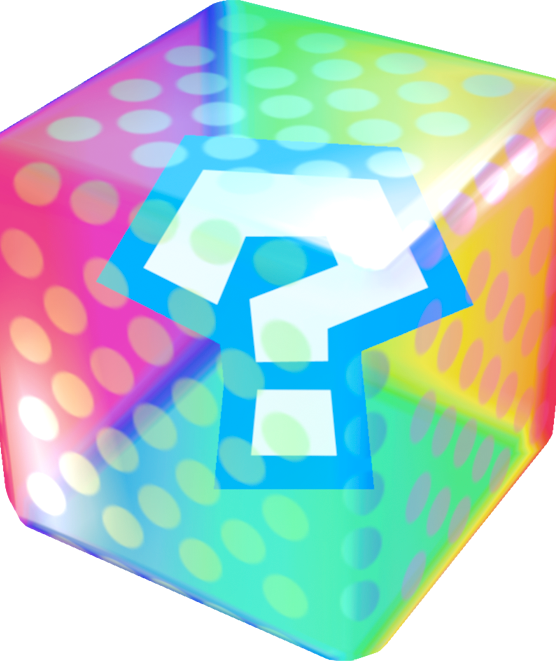
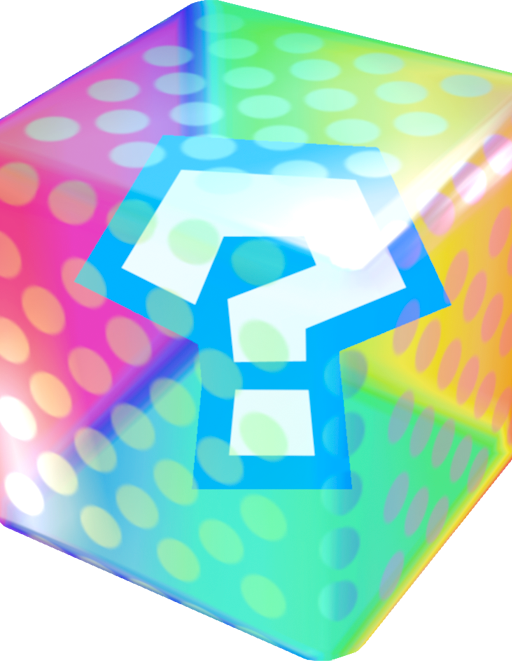
minor wording and visual changes

diff --git a/client/src/components/About.js b/client/src/components/About.js
@@ -19,11 +19,23 @@ class About extends React.Component {
                 <p> Click "Profile" in the top right corner and choose a username, a language to learn, and an avatar. After saving, navigate to the lobby
                 (landing page) and click the "Play" button that appears when hovering over the desired game variant. Once the game starts, a random English
                 sentence is displayed and your goal is to translate it to the best of your abilities into the specified language. When you submit your guess,
-                you will receive visual feedback that indicates which words/characters you guessed correctly and those you missed. You will receive one point
-                for each word/character guessed incorrectly. Earn enough points and you will triumph over you opponent in this exhilerating reverse tug-of-war!</p>
-                <b>Random Mode</b><p>Play against another random netizen (must wait for other user to join before game begins).</p>
-                <b>Company Mode</b><p>Put your skills to the test against established translation services.</p>
-                <b>Practice Mode</b>&nbsp;<i>(Coming soon!)</i><p>No points, no score, just practice.</p>
+                you will receive visual feedback that indicates which words/characters you guessed correctly and those you missed. You will receive points based
+                on your performance. Earn enough points and you will triumph over your opponent in this exhilarating reverse tug-of-war! </p>
+                
+                <h4>Scoring</h4>
+                <ul>
+                    <li><b>Correctness: </b>+1 point for each word/character translated correctly</li>
+                    <li><b>First Strike: </b>+1 point for the player that submits first</li>
+                    <li><b>Streak: </b>+1 point if the player won the previous round <i>(Coming soon!)</i></li>
+                </ul>
+
+                <h4>Modes</h4>
+                <ul>
+                    <li><b>Random: </b>Play against another random netizen (must wait for other user to join before game begins).</li>
+                    <li><b>Company: </b>Put your skills to the test against established translation services.</li>
+                    <li><b>Practice: </b>No points, no score, just practice. <i>(Coming soon!)</i></li> 
+                </ul>
+
 
                 <h1>What do we do with your data?</h1>
                 A username is requested merely to track score history and populate the leaderboards!

diff --git a/client/src/components/LeaderBoard.css b/client/src/components/LeaderBoard.css
@@ -1,10 +1,10 @@
 @import url('https://fonts.googleapis.com/css?family=Rubik:300,400,500');
 
-* {
+/* * {
   box-sizing: border-box;
   margin: 0;
   padding: 0;
-}
+} */
 .leaderboard {
   /* border-top: 4px solid #DC0000; */
   /* background: #15151E; */

diff --git a/client/src/components/Lobby.css b/client/src/components/Lobby.css
@@ -95,7 +95,7 @@ img {
 }
 
 .logo {
-    opacity: .5;
+    opacity: .75;
     margin: 0;
     position: absolute;
     top: 50%;
